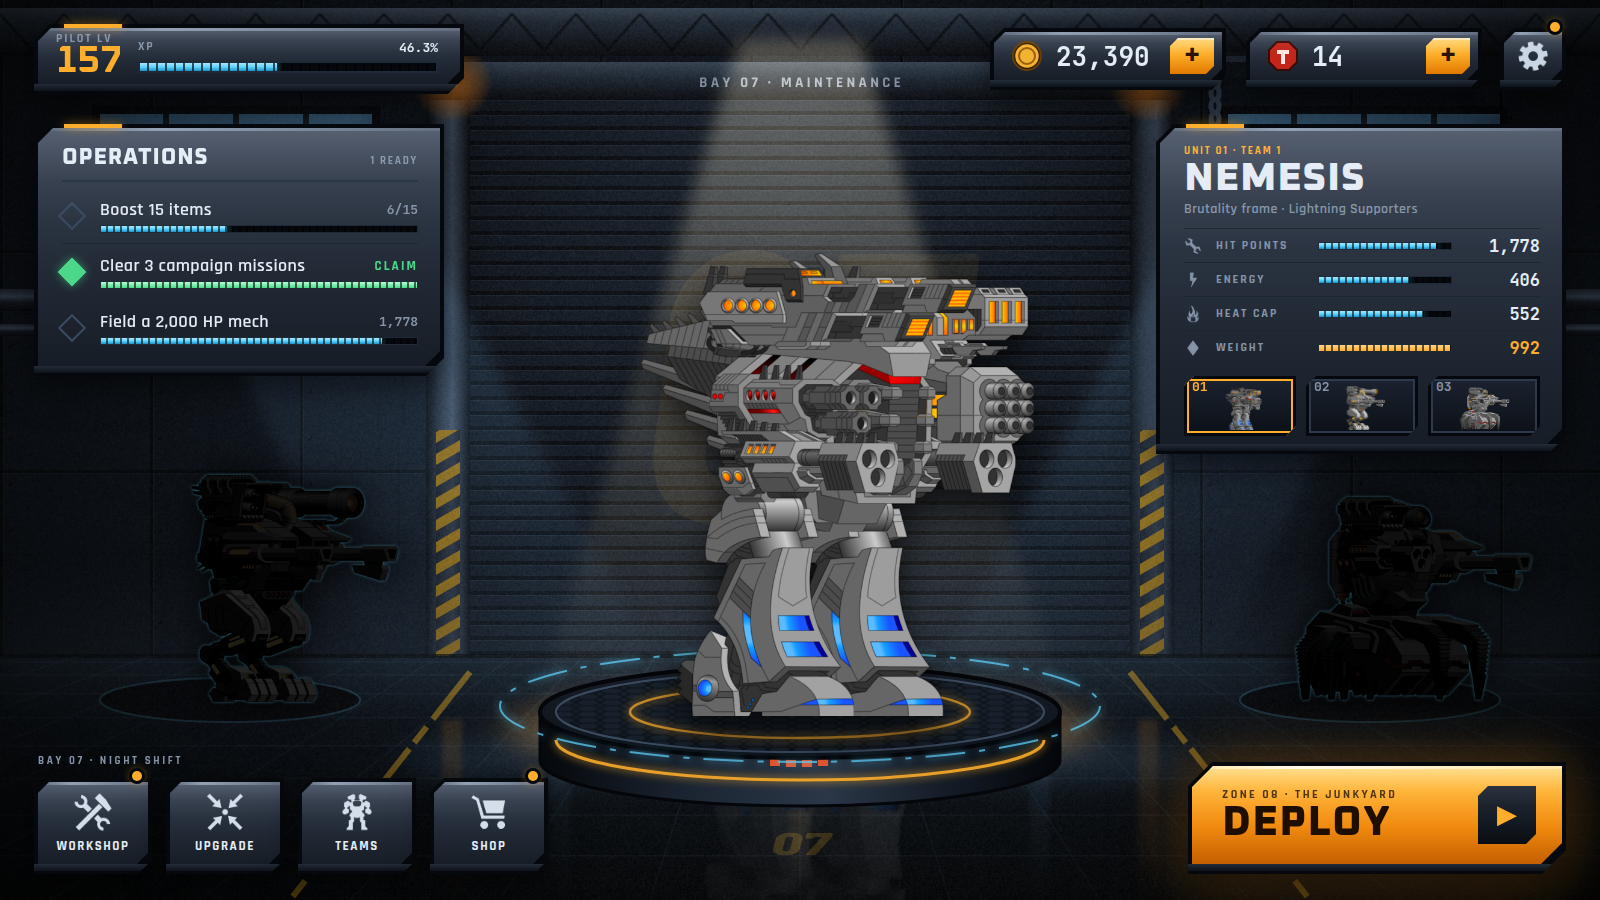
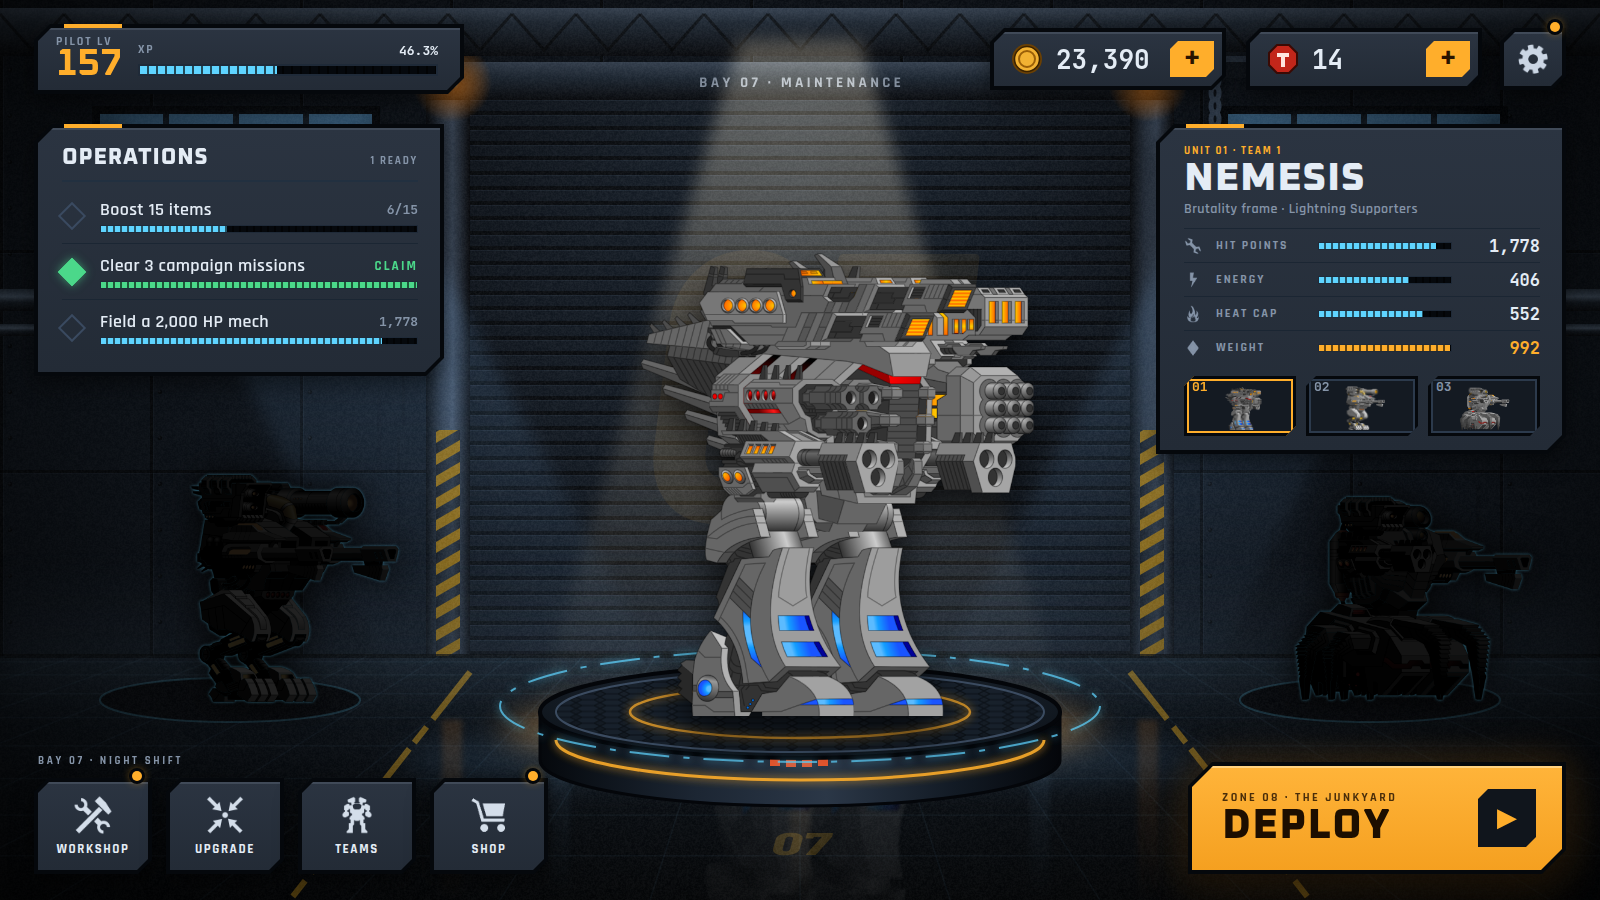
Flatten direction F blocks and remove the bottom lip
Flat faces, one thin top edge, even 4px outline on every block; the lip read
as a separate ledge at the corners.

Claude-Session: https://claude.ai/code/session_016EMeU7WbdybdkHaQ4QiAx5

diff --git a/ui/mocks/F-bay.html b/ui/mocks/F-bay.html
@@ -21,16 +21,16 @@ canvas{position:absolute;left:0;top:0;width:1600px;height:900px}
 .mask{display:inline-block;background:currentColor;-webkit-mask:var(--i) center/contain no-repeat;mask:var(--i) center/contain no-repeat}
 
 /* ---- block: item-style geometry. Fat dark outline, chamfered corners, clean light-to-dark face, bright top edge, dark lip ---- */
-.plate{position:absolute;--c:18px;padding:4px 4px 10px;filter:drop-shadow(0 12px 18px rgba(0,0,0,.55))}
+.plate{position:absolute;--c:18px;padding:4px;filter:drop-shadow(0 8px 12px rgba(0,0,0,.45))}
 .plate::before{content:"";position:absolute;inset:0;z-index:0;
-  background:linear-gradient(180deg,#05080c 0,#05080c calc(100% - 10px),#222b37 calc(100% - 10px),#0d1218 calc(100% - 3px),#05080c calc(100% - 3px));
+  background:#05080c;
   clip-path:polygon(var(--c) 0,100% 0,100% calc(100% - var(--c)),calc(100% - var(--c)) 100%,0 100%,0 var(--c))}
 .plate>.in{position:relative;z-index:1;height:100%;--k:calc(var(--c) - 3px);
   clip-path:polygon(var(--k) 0,100% 0,100% calc(100% - var(--k)),calc(100% - var(--k)) 100%,0 100%,0 var(--k));
-  background:linear-gradient(180deg,#4a5567 0%,#323b4a 22%,#222a36 60%,#171d26 100%)}
-.plate>.in::before{content:"";position:absolute;left:0;right:0;top:0;height:3px;background:linear-gradient(90deg,rgba(210,225,245,.15),rgba(210,225,245,.55) 30%,rgba(210,225,245,.2));pointer-events:none}
-.plate>.in::after{content:"";position:absolute;left:0;right:0;top:3px;height:40%;background:linear-gradient(180deg,rgba(255,255,255,.07),transparent);pointer-events:none}
-.notch{position:absolute;top:0;left:30px;width:58px;height:4px;background:var(--amber);z-index:2;box-shadow:0 0 10px rgba(255,174,43,.6)}
+  background:linear-gradient(180deg,#2b3441,#232b36)}
+.plate>.in::before{content:"";position:absolute;left:0;right:0;top:0;height:2px;background:rgba(200,215,235,.14);pointer-events:none}
+
+.notch{position:absolute;top:0;left:30px;width:58px;height:4px;background:var(--amber);z-index:2}
 
 /* ---- HUD ---- */
 .lv{left:34px;top:24px;width:430px;height:70px;--c:16px}
@@ -42,13 +42,13 @@ canvas{position:absolute;left:0;top:0;width:1600px;height:900px}
 .xp .row{display:flex;justify-content:space-between;font-size:12px;color:var(--mute);margin-bottom:5px}
 .xp .row .num{color:var(--text);font-size:13px}
 .seg{height:12px;background:#05080c;border:2px solid #1f2a38;position:relative;overflow:hidden}
-.seg i{position:absolute;left:0;top:0;bottom:0;background:linear-gradient(180deg,#a8e8ff,var(--cyan) 50%,#1d8fc4);box-shadow:0 0 10px rgba(95,212,255,.6)}
+.seg i{position:absolute;left:0;top:0;bottom:0;background:var(--cyan)}
 .seg::after{content:"";position:absolute;inset:0;background:repeating-linear-gradient(90deg,transparent 0 7px,rgba(0,0,0,.65) 7px 9px)}
 .chip{top:28px;width:236px;height:62px;--c:14px}
 .chip .in{display:flex;align-items:center;gap:12px;padding-left:16px}
 .chip svg{width:34px;height:34px;flex:none}
 .chip b{flex:1;font-size:26px}
-.chip .add{width:44px;height:36px;margin-right:8px;background:linear-gradient(180deg,#ffd978,var(--amber) 45%,var(--amber2));color:#2a1400;font:700 28px var(--f-head);display:flex;align-items:center;justify-content:center;clip-path:polygon(8px 0,100% 0,100% calc(100% - 8px),calc(100% - 8px) 100%,0 100%,0 8px);box-shadow:inset 0 2px 0 rgba(255,255,255,.5)}
+.chip .add{width:44px;height:36px;margin-right:8px;background:var(--amber);color:#2a1400;font:700 28px var(--f-head);display:flex;align-items:center;justify-content:center;clip-path:polygon(8px 0,100% 0,100% calc(100% - 8px),calc(100% - 8px) 100%,0 100%,0 8px)}
 .gear{left:1500px;top:28px;width:66px;height:62px;--c:14px}
 .gear .in{display:flex;align-items:center;justify-content:center;color:#cbd6e4}
 .gear .mask{width:30px;height:30px}
@@ -69,7 +69,7 @@ canvas{position:absolute;left:0;top:0;width:1600px;height:900px}
 .q .seg{grid-column:2 / 4;height:8px;border-width:1px}
 .q .seg::after{background:repeating-linear-gradient(90deg,transparent 0 5px,rgba(0,0,0,.6) 5px 7px)}
 .q.claim .v{color:var(--green)}
-.q.claim .seg i{background:linear-gradient(180deg,#b6ffd3,var(--green));box-shadow:0 0 8px rgba(75,216,138,.6)}
+.q.claim .seg i{background:var(--green)}
 
 .unit{left:1156px;top:124px;width:410px;height:330px}
 .unit .code{font-size:11px;color:var(--amber)}
@@ -82,9 +82,9 @@ canvas{position:absolute;left:0;top:0;width:1600px;height:900px}
 .sr .seg::after{background:repeating-linear-gradient(90deg,transparent 0 5px,rgba(0,0,0,.6) 5px 7px)}
 .sr b{text-align:right;font-size:17px}
 .sr.warn b{color:var(--amber)}
-.sr.warn .seg i{background:linear-gradient(180deg,#ffd58a,var(--amber));box-shadow:0 0 8px rgba(255,174,43,.6)}
+.sr.warn .seg i{background:var(--amber)}
 .team{display:flex;gap:10px;margin-top:12px}
-.tm{flex:1;height:60px;position:relative;overflow:hidden;background:linear-gradient(180deg,#1c2330,#0b1016);clip-path:polygon(10px 0,100% 0,100% calc(100% - 10px),calc(100% - 10px) 100%,0 100%,0 10px);box-shadow:inset 0 0 0 3px #05080c,inset 0 0 0 5px #2c3a4c}
+.tm{flex:1;height:60px;position:relative;overflow:hidden;background:#141a22;clip-path:polygon(10px 0,100% 0,100% calc(100% - 10px),calc(100% - 10px) 100%,0 100%,0 10px);box-shadow:inset 0 0 0 3px #05080c,inset 0 0 0 5px #2c3a4c}
 .tm.on{box-shadow:inset 0 0 0 3px #05080c,inset 0 0 0 5px var(--amber)}
 .tm .w{position:absolute;left:50%;top:6px;transform:translateX(-50%)}
 .tm span{position:absolute;left:8px;top:2px;font:700 13px var(--f-num);color:var(--mute);transform:none;z-index:2}
@@ -102,13 +102,13 @@ canvas{position:absolute;left:0;top:0;width:1600px;height:900px}
 .nb .mask{width:40px;height:40px}
 .nb .lbl{font-size:13px;color:var(--text);letter-spacing:.12em}
 .nb .dot{top:-7px;right:10px}
-.go{left:1188px;top:762px;width:378px;height:112px;--c:24px;filter:drop-shadow(0 12px 18px rgba(0,0,0,.55)) drop-shadow(0 0 26px rgba(255,160,40,.35))}
-.go>.in{background:linear-gradient(180deg,#ffe08a 0%,#ffb437 25%,#f08a10 62%,#c45f00 100%)}
-.go>.in::before{background:linear-gradient(90deg,rgba(255,255,255,.3),rgba(255,255,255,.85) 30%,rgba(255,255,255,.3))}
+.go{left:1188px;top:762px;width:378px;height:112px;--c:24px;filter:drop-shadow(0 12px 18px rgba(0,0,0,.55)) drop-shadow(0 0 18px rgba(255,160,40,.22))}
+.go>.in{background:linear-gradient(180deg,#ffb43a,#f5a020)}
+.go>.in::before{background:rgba(255,240,200,.5)}
 .go .in{display:flex;align-items:center;padding:0 26px 0 30px;color:#1d0e00;gap:18px}
 .go .zone{font-size:12px;letter-spacing:.2em;opacity:.8}
 .go h3{font-family:var(--f-head);font-size:42px;line-height:1;font-weight:800;text-transform:uppercase;letter-spacing:.03em}
-.go .arr{margin-left:auto;width:58px;height:58px;background:linear-gradient(180deg,#232c38,#0a0e13);color:var(--amber);display:flex;align-items:center;justify-content:center;font-size:26px;clip-path:polygon(10px 0,100% 0,100% calc(100% - 10px),calc(100% - 10px) 100%,0 100%,0 10px)}
+.go .arr{margin-left:auto;width:58px;height:58px;background:#10151c;color:var(--amber);display:flex;align-items:center;justify-content:center;font-size:26px;clip-path:polygon(10px 0,100% 0,100% calc(100% - 10px),calc(100% - 10px) 100%,0 100%,0 10px)}
 
 .foot{position:absolute;left:38px;top:754px;font-size:11px;color:var(--mute);z-index:9;letter-spacing:.24em}
 </style></head>
